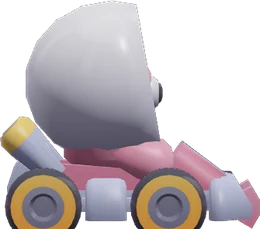
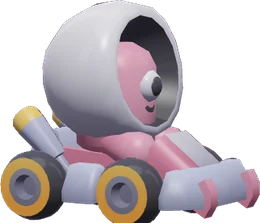
v.101

diff --git a/index.html b/index.html
@@ -226,7 +226,7 @@ body.hbig main{max-width:1180px}.rtmr~#rtr .r3.h{width:min(80vw,calc(36vh*2))}bo
 .pv3:not(.on) svg{margin-top:70px}
 .g3h{position:absolute;left:0;right:0;bottom:8px;text-align:center;font-size:11.5px;color:#d9dcffb0;pointer-events:none;display:none;z-index:2}.pv3.on .g3h{display:block}
 .vgrid{display:grid;grid-template-columns:repeat(3,1fr);gap:6px;margin:4px 0 10px}.vcard{font:inherit;color:var(--text);background:rgba(23,40,63,.78);border:1.5px solid var(--line);border-radius:14px;padding:6px 4px 7px;cursor:pointer;display:flex;flex-direction:column;align-items:center;gap:1px}
-.vcard svg{width:100%;height:auto;max-height:46px;overflow:visible}.vcard b{font-size:11.5px;line-height:1.15;text-align:center}.vcard small{font-size:10px;color:var(--mute)}.vcard.on{border-color:var(--glow);box-shadow:0 0 0 2px #ffd34d55}.vcard[disabled]{opacity:.5;cursor:default}.vcard[disabled] svg{filter:grayscale(.85) brightness(.8)}
+.vcard svg{width:100%;height:auto;max-height:46px;overflow:visible}.vcard b{font-size:11.5px;line-height:1.15;text-align:center}.vcard small{font-size:10px;color:var(--mute)}.vcard.on{border-color:var(--glow);box-shadow:0 0 0 2px #ffd34d55}.vcard img{height:50px;width:auto;max-width:100%;object-fit:contain;margin:2px 0}.vcard[disabled]{opacity:.72;cursor:default}.vcard[disabled] svg,.vcard[disabled] img{filter:saturate(.55) brightness(.8)}
 .pv.pv3s{position:relative;height:200px;border-radius:18px;overflow:hidden;padding:0!important;background:radial-gradient(110% 80% at 50% 0%,#5a4b8f 0%,#2a2350 45%,#130f26 100%)}.pv3s .g3c{position:absolute;inset:0;width:100%;height:100%;touch-action:none}.pv3s:not(.on) svg{margin-top:60px}
 .rwh,.rbd,.rwhy,.rnx,.rw>.btn,.rw>.ex{flex-shrink:0}.rwh{text-align:center;margin-bottom:8px}.rwh small{display:block;color:var(--mute);letter-spacing:.08em;font-size:12px;text-transform:uppercase}
 .rwh .res{font-size:22px;font-weight:800;margin-top:2px}.rwh .res.ok{color:#5dff9b}.rwh .res.no{color:#ff7b7b}.rwh .res.to{color:var(--mute)}
@@ -326,7 +326,7 @@ const $=document.getElementById("app"),$$=i=>document.getElementById(i);
 /* ---- Αποστολή αποτελεσμάτων στον καθηγητή (προαιρετική) ----
    Βάλε εδώ τη διεύθυνση του Google Apps Script (βλέπε ΟΔΗΓΙΕΣ) και το ίδιο κλειδί με του script.
    Αν η RESULTS_URL είναι κενή, δεν στέλνεται τίποτα. */
-const RESULTS_URL="https://script.google.com/macros/s/AKfycbxTsRypouAOHG01jLq_i8qeU2p6K-JSeNS60VXb19GWERRxxVUR2OQvTGKXgUkpKmDlsw/exec",RESULTS_KEY="pim-2026-xyz",APPV="pim-v100";
+const RESULTS_URL="https://script.google.com/macros/s/AKfycbxTsRypouAOHG01jLq_i8qeU2p6K-JSeNS60VXb19GWERRxxVUR2OQvTGKXgUkpKmDlsw/exec",RESULTS_KEY="pim-2026-xyz",APPV="pim-v101";
 const st={get(k,d){try{return JSON.parse(localStorage.getItem(k))??d}catch(e){return d}},set(k,v){try{localStorage.setItem(k,JSON.stringify(v))}catch(e){}}};
 const voc=n=>{n=String(n||"").trim();if(!/^[Α-Ωα-ωΆ-Ώά-ώϊϋΐΰ]+$/.test(n))return n;const l=n.toLowerCase();
  if(/(ιος|ειος)$/.test(l)&&n.length>5)return n.slice(0,-2)+"ε";if(/ος$/.test(l))return n.slice(0,-1);if(/ης$/.test(l)||/ας$/.test(l))return n.slice(0,-1);return n};
@@ -536,7 +536,7 @@ const CWING=(x,y,an)=>{const f=(r,l)=>`<g transform="rotate(${r})"><path d="M0 0
 const CFIRE=(x,y)=>{const f=(l,h,c,n)=>`<g class="fl ${n}"><path d="M${x} ${y}C${x-l*.2} ${y-h} ${x-l*.7} ${y-h*.7} ${x-l} ${y}C${x-l*.7} ${y+h*.7} ${x-l*.2} ${y+h} ${x} ${y}z" fill="${c}"/></g>`;
  return f(40,6,"#ff7a18","fl1")+f(26,4.4,"#ffc857","fl2")+f(13,2.8,"#fff3b0","fl3")+[0,.2,.4].map((d,i)=>`<circle class="em" cx="${x-14-i*7}" cy="${y-2+i*2}" r="1.1" fill="#ffb347" style="animation-delay:${d}s"/>`).join("")};
 const carNum=()=>{let n="7";try{const v=String(pget().num??"7");if(/^\d{1,2}$/.test(v))n=v}catch(e){}return n};
-const GLBA={"ambulance":0.503,"delivery-flat":0.427,"delivery":0.487,"firetruck":0.478,"garbage-truck":0.468,"hatchback-sports":0.4,"kart-oobi":0.881,"kart-oodi":0.881,"kart-ooli":0.881,"kart-oopi":0.881,"kart-oozi":0.881,"police":0.431,"race":0.297,"race-future":0.32,"sedan":0.485,"sedan-sports":0.447,"suv":0.462,"suv-luxury":0.461,"taxi":0.502,"tractor":0.641,"tractor-police":0.657,"tractor-shovel":0.603,"truck":0.454,"truck-flat":0.464,"van":0.476},GLBR=["sedan", "sedan-sports", "hatchback-sports", "race", "race-future", "suv", "suv-luxury", "van", "truck", "tractor"];
+const GLBA={"ambulance":0.503,"delivery-flat":0.427,"delivery":0.487,"firetruck":0.478,"garbage-truck":0.468,"hatchback-sports":0.4,"kart-oobi":0.857,"kart-oodi":0.857,"kart-ooli":0.857,"kart-oopi":0.857,"kart-oozi":0.857,"police":0.431,"race":0.297,"race-future":0.32,"sedan":0.485,"sedan-sports":0.447,"suv":0.462,"suv-luxury":0.461,"taxi":0.502,"tractor":0.641,"tractor-police":0.657,"tractor-shovel":0.603,"truck":0.454,"truck-flat":0.464,"van":0.476},GLBR=["sedan","sedan-sports","hatchback-sports","race","suv","suv-luxury","van","truck","tractor"];
 Object.keys(GLBA).forEach(t=>{CARDEF[t]=(g,c)=>{const a=GLBA[t];let w=112,h=w*a;if(h>44){h=44;w=h/a}const x=(120-w)/2,y=47-h,k=GLBR.indexOf(t)<0?"x":((COLS.find(z=>z[1].toLowerCase()===String(c||"").toLowerCase())||COLS[0])[0]);
  return{b:`<image href="cars/side/${t}-${k}.webp" x="${x.toFixed(1)}" y="${y.toFixed(1)}" width="${w.toFixed(1)}" height="${h.toFixed(1)}"/>`,w:"",rear:[x+3,y+h*.35],roof:[x+w*.5-6,y+2],side:null,nm:[x+w*.47,y+h*.6],exh:[x+1,y+h*.86],dec:[x+w*.27,y+h*.6]}}});
 const CAR=(c,hero,sel)=>{const g="gc"+(++gid),s=sel||carSel(),d=(CARDEF[s.t]||CARDEF.rally)(g,c),has=k=>s.a.indexOf(k)>=0,[ex,ey]=d.exh,[rx,ry]=d.rear,[ox,oy]=d.roof,[dx,dy]=d.dec;
@@ -727,7 +727,7 @@ function sheet(title,body,bind,after){const old=$$("pov");let sc=0;if(old){sc=ol
  const re=()=>sheet(title,body,bind,after);bind(d,re)}
 function avatarSheet(){const xp=totXP();
  const body=()=>{const p=pget(),bgs=["kin","dyn1","dyn2","en"].filter(w=>w==="kin"||cardsOn(w).some(Boolean));setBg(p.bg);
- return `<div class="pv pv3s">${CAR(carC(),1)}</div><h3 class="ph">Ο τυχερός μου αριθμός</h3><div class="chips"><input class="chn" id="pnum" inputmode="numeric" maxlength="2" style="width:90px;text-align:center;font-size:22px" value="${esc(carNum())}" aria-label="Τυχερός αριθμός 0 έως 99"><span style="color:var(--mute);font-size:13px">0–99, φαίνεται στο όχημά σου</span></div><h3 class="ph">Χρώμα οχήματος</h3><div class="chips">${COLS.map(c=>`<button class="chip${p.col===c[0]?" on":""}" data-col="${c[0]}" ${xp<c[2]?"disabled":""}><i style="background:${c[1]}"></i>${xp<c[2]?"🔒 "+c[2]+" XP":c[3]}</button>`).join("")}</div><h3 class="ph">Όχημα</h3><div class="vgrid">${CAR_TYPES.map(t=>`<button class="vcard${carSel().t===t[0]?" on":""}" data-car="${t[0]}" ${xp<t[2]?"disabled":""}>${CAR(carC(),false,{t:t[0],a:[]})}<b>${t[1]}</b><small>${xp<t[2]?"🔒 "+t[2]+" XP":t[2]?"✓ ξεκλείδωτο":"δωρεάν"}</small></button>`).join("")}</div><h3 class="ph">Αξεσουάρ</h3><div class="chips">${CAR_ACC.map(a=>`<button class="chip${carSel().a.indexOf(a[0])>=0?" on":""}" data-acc="${a[0]}" ${xp<a[2]?"disabled":""}>${xp<a[2]?"🔒 "+a[1]+" · "+a[2]+" XP":a[3]+" "+a[1]}</button>`).join("")}</div><h3 class="ph">Σκηνικό αρχικής</h3><div class="chips">${["kin","dyn1","dyn2","en"].map(w=>`<button class="chip${p.bg===w?" on":""}" data-bg="${w}" ${bgs.includes(w)?"":"disabled"}>${bgs.includes(w)?WORLDS[w].e+" "+WORLDS[w].n:"🔒 Κέρδισε μια κάρτα"}</button>`).join("")}</div>`};
+ return `<div class="pv pv3s">${CAR(carC(),1)}</div><h3 class="ph">Ο τυχερός μου αριθμός</h3><div class="chips"><input class="chn" id="pnum" inputmode="numeric" maxlength="2" style="width:90px;text-align:center;font-size:22px" value="${esc(carNum())}" aria-label="Τυχερός αριθμός 0 έως 99"><span style="color:var(--mute);font-size:13px">0–99, φαίνεται στο όχημά σου</span></div><h3 class="ph">Χρώμα οχήματος</h3><div class="chips">${COLS.map(c=>`<button class="chip${p.col===c[0]?" on":""}" data-col="${c[0]}" ${xp<c[2]?"disabled":""}><i style="background:${c[1]}"></i>${xp<c[2]?"🔒 "+c[2]+" XP":c[3]}</button>`).join("")}</div><h3 class="ph">Όχημα</h3><div class="vgrid">${CAR_TYPES.map(t=>`<button class="vcard${carSel().t===t[0]?" on":""}" data-car="${t[0]}" ${xp<t[2]?"disabled":""}>${GLBA[t[0]]?`<img src="cars/thumb/${t[0]}-${GLBR.indexOf(t[0])<0?"x":(COLS.find(z=>z[1]===carC())||COLS[0])[0]}.webp" alt="" loading="lazy">`:CAR(carC(),false,{t:t[0],a:[]})}<b>${t[1]}</b><small>${xp<t[2]?"🔒 "+t[2]+" XP":t[2]?"✓ ξεκλείδωτο":"δωρεάν"}</small></button>`).join("")}</div><h3 class="ph">Αξεσουάρ</h3><div class="chips">${CAR_ACC.map(a=>`<button class="chip${carSel().a.indexOf(a[0])>=0?" on":""}" data-acc="${a[0]}" ${xp<a[2]?"disabled":""}>${xp<a[2]?"🔒 "+a[1]+" · "+a[2]+" XP":a[3]+" "+a[1]}</button>`).join("")}</div><h3 class="ph">Σκηνικό αρχικής</h3><div class="chips">${["kin","dyn1","dyn2","en"].map(w=>`<button class="chip${p.bg===w?" on":""}" data-bg="${w}" ${bgs.includes(w)?"":"disabled"}>${bgs.includes(w)?WORLDS[w].e+" "+WORLDS[w].n:"🔒 Κέρδισε μια κάρτα"}</button>`).join("")}</div>`};
  const bind=(d,re)=>{const sv=(k,v)=>{const q=pget();q[k]=v;st.set("prof:"+P.code,q);re()};
   {const n=$$("pnum");n.oninput=()=>{const v=n.value.replace(/\D/g,"").slice(0,2);n.value=v;if(v!==""){const q=pget();q.num=v;st.set("prof:"+P.code,q);const pv=d.querySelector(".pv");pv.classList.remove("on");pv.innerHTML=CAR(carC(),1);g3Into(pv)}};n.onblur=()=>{if(n.value==="")n.value=carNum()}}
   d.querySelectorAll("[data-col]").forEach(b=>b.onclick=()=>sv("col",b.dataset.col));d.querySelectorAll("[data-car]").forEach(b=>b.onclick=()=>sv("car",b.dataset.car));d.querySelectorAll("[data-acc]").forEach(b=>b.onclick=()=>{const a=carSel().a.slice(),i=a.indexOf(b.dataset.acc);i>=0?a.splice(i,1):a.push(b.dataset.acc);sv("acc",a)});d.querySelectorAll("[data-bg]").forEach(b=>b.onclick=()=>sv("bg",b.dataset.bg));g3Into(d.querySelector(".pv"))};
@@ -832,7 +832,7 @@ function build(sel){const T=TY[sel.t]||TY.rally,g=new Geo(),has=a=>(sel.a||[]).i
  return{g,wheels,fx,T,hover:sel.t==="hover"}}
 function merge(g,o,mp,mn){const b=g.p.length/3;for(let q=0;q<o.p.length/3;q++){const p=[o.p[3*q],o.p[3*q+1],o.p[3*q+2]],n=[o.n[3*q],o.n[3*q+1],o.n[3*q+2]];g.v(mp(p),mn(n),[o.c[3*q],o.c[3*q+1],o.c[3*q+2]],o.k[q],[o.t[2*q],o.t[2*q+1]])}o.i.forEach(i=>g.i.push(b+i))}
 /* ---------- μοντέλα Kenney (GLB, CC0) ---------- */
-const GLBT={sedan:.0278,"sedan-sports":.0278,"hatchback-sports":.4167,race:.0278,"race-future":.6389,suv:.4167,"suv-luxury":.1111,van:.6111,truck:.4167,tractor:.0833,
+const GLBT={sedan:.0278,"sedan-sports":.0278,"hatchback-sports":.4167,race:.0278,"race-future":-1,suv:.4167,"suv-luxury":.1111,van:.6111,truck:.4167,tractor:.0833,
  taxi:-1,police:-1,ambulance:-1,firetruck:-1,"garbage-truck":-1,delivery:-1,"delivery-flat":-1,"truck-flat":-1,"tractor-shovel":-1,"tractor-police":-1,"kart-oobi":-1,"kart-oodi":-1,"kart-ooli":-1,"kart-oopi":-1,"kart-oozi":-1};
 const GLB_BASE=(window.G3_BASE||"cars/"),GLBC={};
 function q2m(q){const[x,y,z,w]=q;return[1-2*(y*y+z*z),2*(x*y+z*w),2*(x*z-y*w),0,2*(x*y-z*w),1-2*(x*x+z*z),2*(y*z+x*w),0,2*(x*z+y*w),2*(y*z-x*w),1-2*(x*x+y*y),0,0,0,0,1]}
@@ -941,7 +941,7 @@ function mount(host,sel,color,num,opt){opt=opt||{};let cv=document.createElement
   if(!st.drag){st.idle+=dt;st.yaw+=st.vy;st.vy*=.92;if(st.idle>2.2&&!opt.still)st.yaw+=dt*.32*Math.min(1,(st.idle-2.2))}
   st.glow=Math.max(0,st.glow-dt*.8);st.spin=Math.max(0,st.spin-dt*.45);wa+=dt*(.6+st.spin*14);
   gl.viewport(0,0,cv.width,cv.height);gl.clear(gl.COLOR_BUFFER_BIT|gl.DEPTH_BUFFER_BIT);
-  if(opt.sprite){st.yaw=0;st.pitch=.04;st.dist=40}
+  if(opt.sprite){st.yaw=opt.yawS||0;st.pitch=opt.pitchS||.04;st.dist=40}
   const tg=[0,opt.sprite?(opt.ty||.9):.62,0],e=[tg[0]+st.dist*Math.cos(st.pitch)*Math.sin(st.yaw),tg[1]+st.dist*Math.sin(st.pitch)+.25,tg[2]+st.dist*Math.cos(st.pitch)*Math.cos(st.yaw)];
   const VP=M4.mul(M4.per(opt.sprite?(opt.fov||.16):.62,W/Math.max(H,1),.1,60),M4.look(e,tg,[0,1,0]));gl.uniformMatrix4fv(U.uVP,false,VP);gl.uniform3fv(U.uEye,e);gl.uniform1f(U.uTime,t);gl.uniform1f(U.uGlow,st.glow);
   const lift=car.hover?.32+Math.sin(t*2)*.07:0,ROOT=M4.tr(0,lift,0);
@@ -956,11 +956,12 @@ function mount(host,sel,color,num,opt){opt=opt||{};let cv=document.createElement
   if(!opt.sprite){gl.uniform1f(U.uRefl,1);scene(true);gl.uniform1f(U.uRefl,0);
   draw(floor,Mrot);gl.depthMask(false);draw(blob,M4.mul(M4.tr(0,0,0),M4.sc(1+lift*.6,1,1+lift*.6)));gl.depthMask(true)}
   scene(false);
-  if(opt.sprite&&ready){if(!opt.ty&&car.bb){opt.ty=(car.bb.y0+car.bb.y1)/2;opt.fov=2*Math.atan(Math.max((car.bb.x1-car.bb.x0)/2/(W/H),(car.bb.y1-car.bb.y0)/2)*1.04/40);requestAnimationFrame(frame);return}st.live=false;try{opt.onSprite&&opt.onSprite(cv)}catch(e){}return}
+  if(opt.sprite&&ready){if(!opt.ty&&car.bb){opt.ty=(car.bb.y0+car.bb.y1)/2;{const Lx=car.bb.x1-car.bb.x0,Wz=car.bb.z1*2,y=st.yaw,pp=st.pitch,ex=(Lx*Math.abs(Math.cos(y))+Wz*Math.abs(Math.sin(y)))/2,dz=(Lx*Math.abs(Math.sin(y))+Wz*Math.abs(Math.cos(y)))/2,ey=((car.bb.y1-car.bb.y0)*Math.cos(pp)+2*dz*Math.sin(pp))/2;opt.fov=2*Math.atan(Math.max(ex/(W/H),ey)*1.06/40)};requestAnimationFrame(frame);return}st.live=false;try{opt.onSprite&&opt.onSprite(cv)}catch(e){}return}
   requestAnimationFrame(frame)}
  function destroy(){st.live=false;try{gl.getExtension("WEBGL_lose_context")&&gl.getExtension("WEBGL_lose_context").loseContext()}catch(e){}}
  requestAnimationFrame(frame);return{destroy,st,cv}}
 return{mount,GLBT}})();
+
 let G3Y=-.65;function g3Into(h,still){if(!h)return;try{let m=null;const done=()=>{h.classList.add("on");const sv=h.querySelector(":scope>svg");if(sv)sv.remove()};
  m=G3.mount(h,carSel(),carC(),carNum(),{yaw:G3Y,onTap:()=>{try{sfx.rev();buzz(40)}catch(e){}},onReady:done});if(!m)return;if(G3.GLBT[carSel().t]==null)done();
  const iv=setInterval(()=>{if(!document.body.contains(m.cv)){clearInterval(iv);return}G3Y=m.st.yaw},500)}catch(e){}}

diff --git a/sw.js b/sw.js
@@ -1,4 +1,4 @@
-const CACHE = "pim-v100";
+const CACHE = "pim-v101";
 const FILES = ["./", "index.html", "questions.js", "manifest.webmanifest", "icon-180.png", "icon-192.png", "icon-512.png", "img/kin.webp", "img/dyn1.webp"];
 
 self.addEventListener("install", e => {
